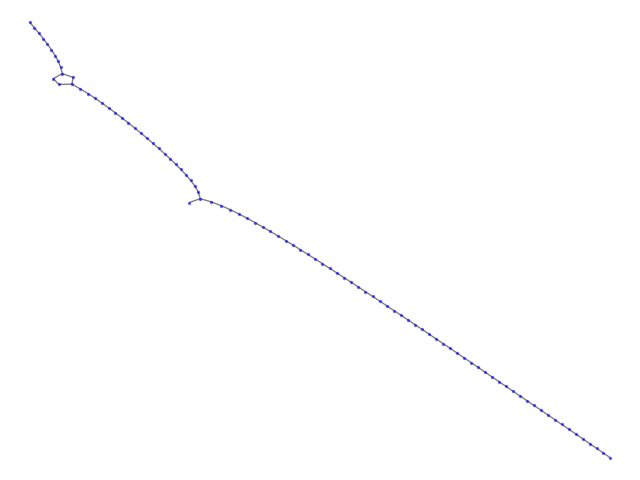
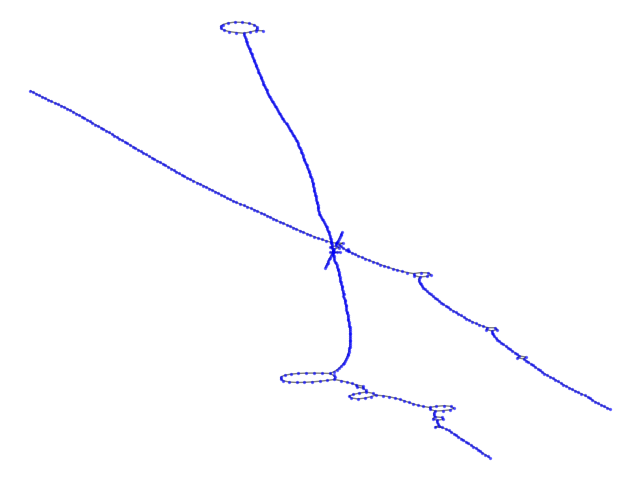
Add timing and larger test project id

diff --git a/src/big_cloud_scratch.py b/src/big_cloud_scratch.py
@@ -1,6 +1,7 @@
 import pandas_gbq
 import networkx as nx
 import matplotlib.pyplot as plt
+import time
 
 def query_ght(queryString):
     # https://bigquery.cloud.google.com/dataset/ghtorrent-bq:ght
@@ -25,10 +26,16 @@ if __name__ == '__main__':
         from `ghtorrent-bq.ght.commits` c
         left join `ghtorrent-bq.ght.projects` p on (p.id = c.project_id)
         left join `ghtorrent-bq.ght.commit_parents` cp on (cp.commit_id = c.id)
-        where (p.id = 12873840)
+        where (p.id = 5524547)
         limit 10000
     """
+    import time
 
+    start = time.time()
     commits = query_ght(commitQuery)
+    getData = time.time()
+    print("Query Time:\t" + str(getData - start))
     branchPlot = plot_commits(commits)
+    plotTime = time.time()
+    print("Plot Time:\t" + str(plotTime - getData))
     plt.savefig("./imgs/branch_test")
